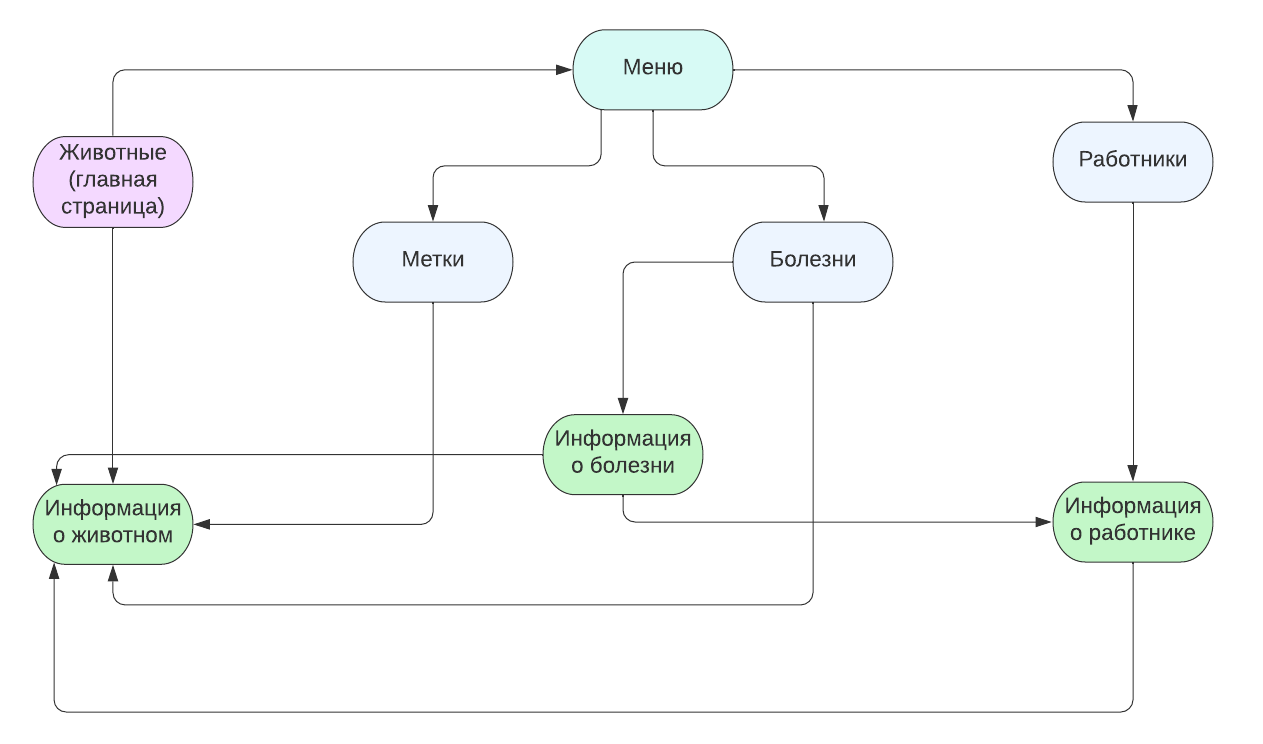
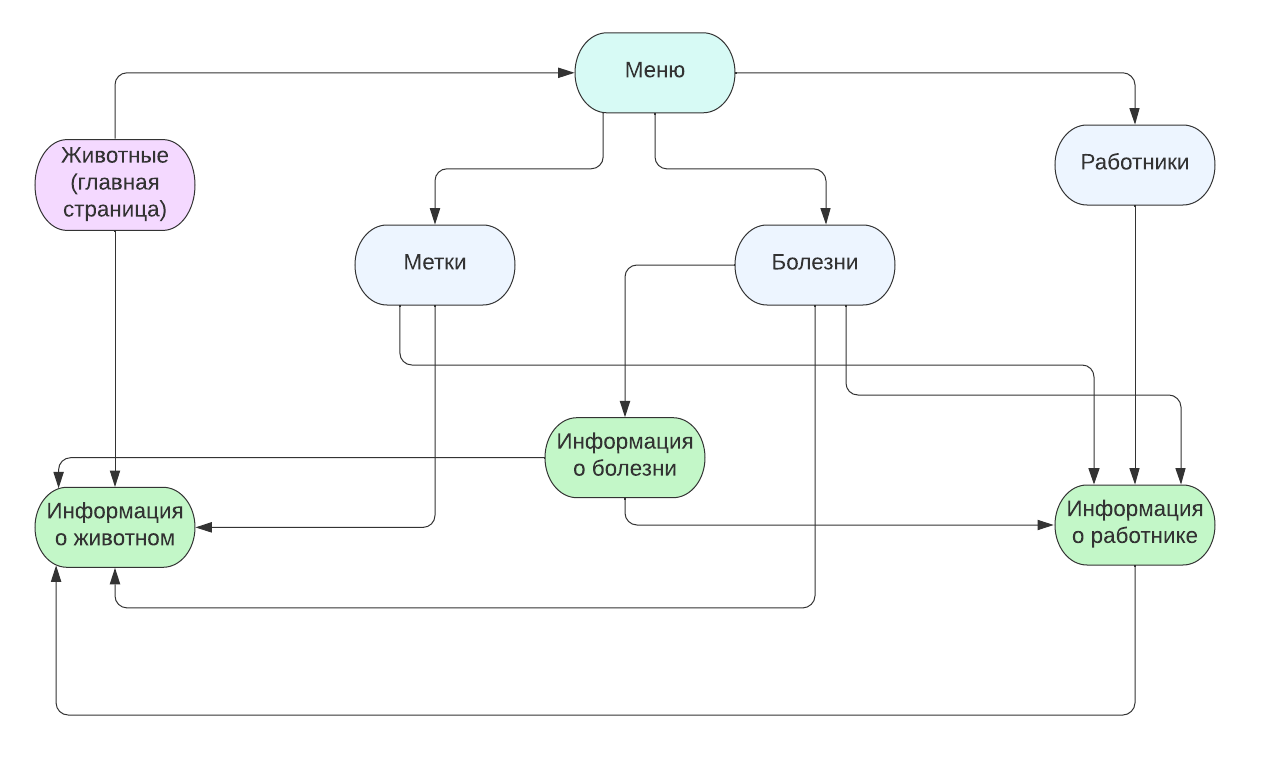
fix readme

diff --git a/README.md b/README.md
@@ -14,8 +14,9 @@
     * Таблица, состоящая из полей:
         * имя
         * вид
-        * латинское назввание
-    * Фильтрация по видам
+        * латинское название
+    * Фильтрация по всем полям
+    * Ссылки на страницы с информацией о животных 
 3. Метки
     * Таблица, состоящая из полей:
         * номер метки
@@ -25,6 +26,8 @@
         * фамилия и имя работника, ставившего метку
     * Сортировка по дате установки меток
     * Фильтрация по номеру метки и по имени животного
+    * Ссылки на страницы с информацией о животных
+    * Ссылки на информацию о работниках
 4. Болезни
     * Таблица, состоящая из полей:
         * название болезни
@@ -34,6 +37,8 @@
         * имя работника, который лечил
     * Сортировка по дате начала болезни
     * Фильтрация по названию болезни
+    * Ссылки на страницы с информацией о животных
+    * Ссылки на информацию о работниках
 5. Работники
     * Таблица, состоящая из полей:
         * фамилия
@@ -43,6 +48,7 @@
         * стаж работы
     * Сортировка по фамилии, имени, отчеству
     * Фильтрация по фамилии, стажу работы, образованию
+    * Ссылки на информацию о работниках
 6. Информация о животном
     * Фотография животного и подробная информация о нём (имя, полная классификация; информация о статусе (жив/мёртв); информация о связях с другими животными (партнёр, родители, дети); информация о текущем положении в стае; информация о миграциях; описание внешнего вида и поведения)
     * Ссылки на страницы с информацией о животных, с которыми есть связи
@@ -55,5 +61,19 @@
     * Ссылки на страницы с информацией о животных, с которыми имел дело работник
 
 ### Примеры сценариев ###
-
+1. Получение списка животных по видам, имеющимся или прошлым меткам, перенесенным болезням
+    * Меню -> Животные -> Применение фильтрации по виду (строка для фильтра)
+    * Меню -> Метки -> Применение фильтрации по номеру метки (строка для фильтра)
+    * Меню -> Болезни -> Применение фильтрации по названию метки (строка для фильтра)
+2. Получение списка сотрудников по образования и опыту работу, с какими животными имел дело
+    * Меню -> Работники -> Применение фильтрации по образованию (строка для фильтра)
+    * Меню -> Работники -> Применение фильтрации по стажу работы (строка для фильтра)
+    * Меню -> Работники -> Переход по ссылке на страницу с информацией о интересующем работнике
+3. Получение деталей по животному, истории его меток, истории его болезней, связей с другими
+    * Меню -> Животные -> Переход по ссылке на страницу с информацией о интересующем животном
+4. Добавление данных о животном или работнике, их чтение и редактирование
+    * Меню -> Животные -> Добавление животного – переход на пустую страницу информации о животном, заполнение полей -> сохранение
+    * Меню -> Работники -> Добавление работника – переход на пустую страницу информации о работнике, заполнение полей -> сохранение
+    * Меню -> Животные -> Применение необходимой фильтрации -> Переход в режим редактирования -> Нажатие кнопки Сохранить (Удалить)
+    * Меню -> Работники -> Применение необходимой фильтрации -> Переход в режим редактирования -> Нажатие кнопки Сохранить (Удалить)
 
